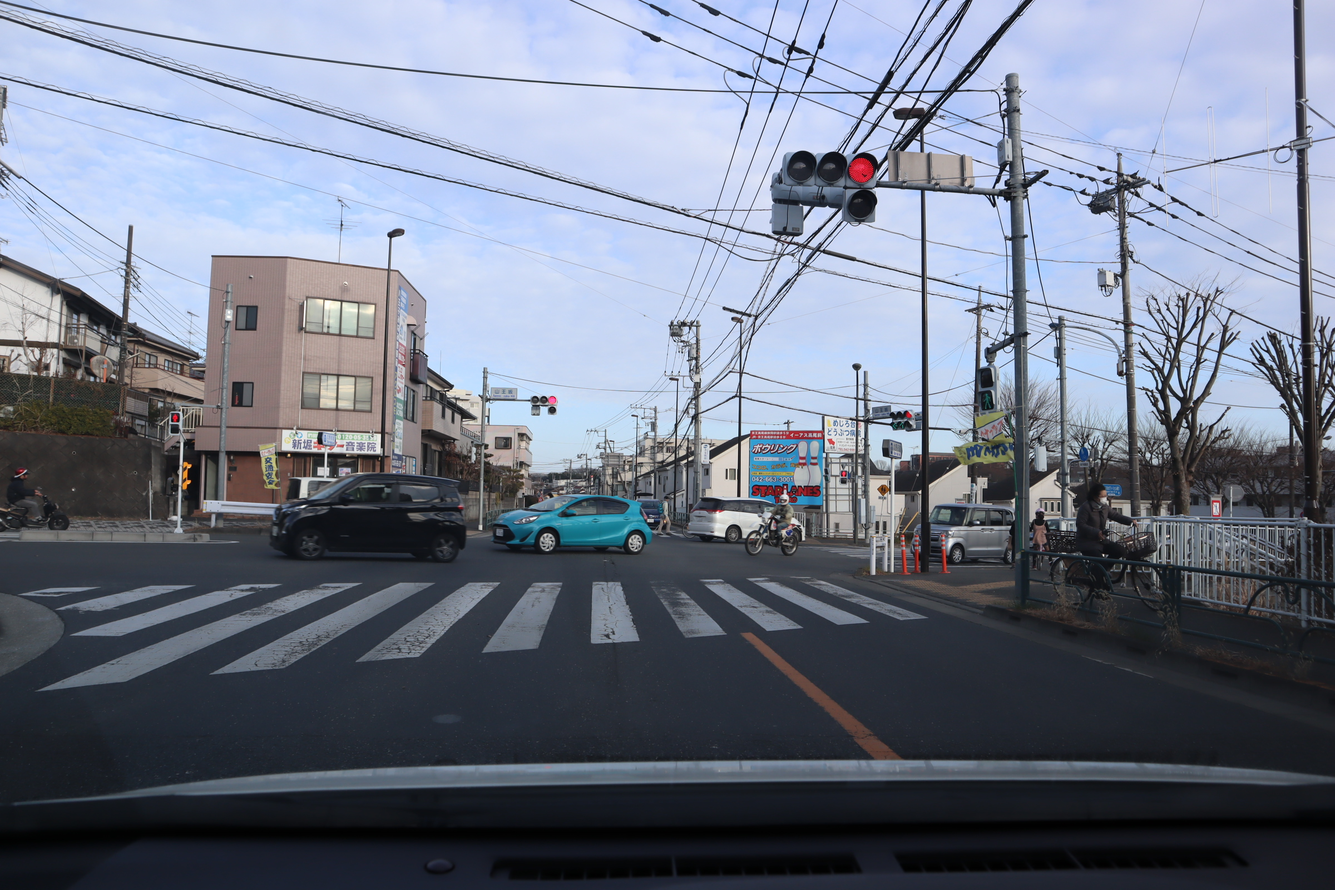
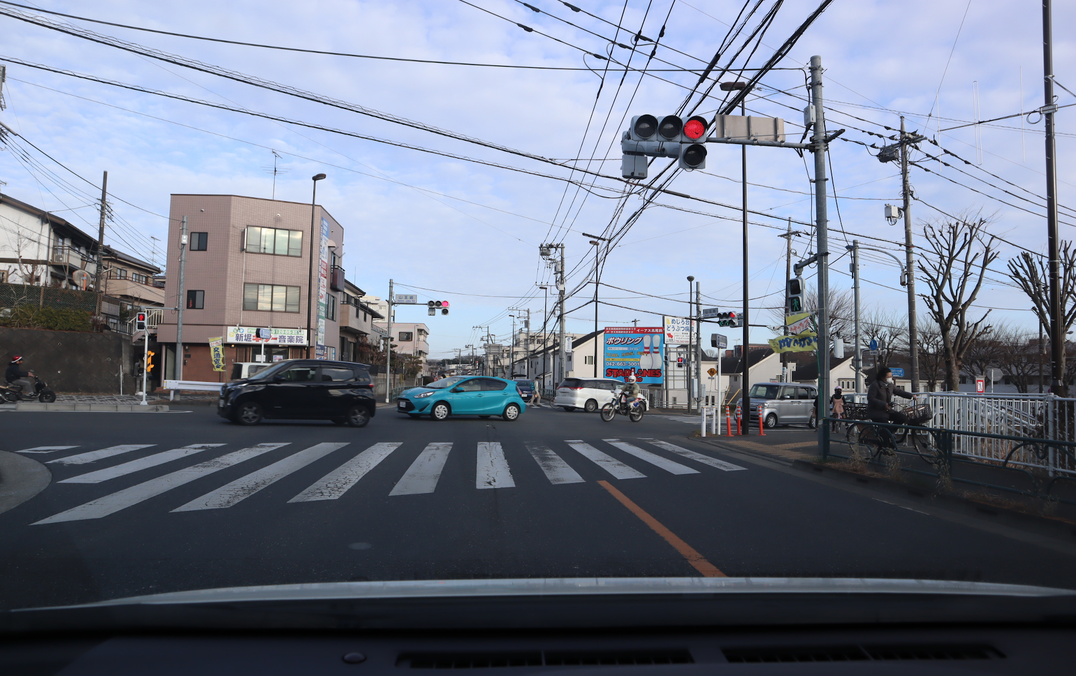
chg  sample image size -> 1936x1216

Changed region(s): [[0.6818, 0.0938, 0.7128, 0.125]]

diff --git a/app/infer_seg.py b/app/infer_seg.py
@@ -29,6 +29,7 @@ parser.add_argument('-o', '--output', default=img_path+'/infer_images', help="Ou
 parser.add_argument('-a', '--annotation',  default=img_path+'/seg_train_annotations', help="annotation file dir")
 parser.add_argument('-c', '--cpu',      action='store_true', default=False, help="disable delegate")
 parser.add_argument('-q', '--quantize', default=True,  action='store_true', help="uint8 model")
+parser.add_argument('-I', '--I8',       default=False, action='store_true', help="int8 model")
 parser.add_argument('-f', '--float',    default=False, action='store_true', help="float model (cpu exec)")
 parser.add_argument('--eval',  default=False, action='store_true', help="eval iou")
 parser.add_argument('--test',  default=False, action='store_true', help="measure infer time")
@@ -38,6 +39,8 @@ args = parser.parse_args()
 ### Prepare TFlite interpreter
 if args.float:
   model = './tflite_graphs/seg_graph_f.tflite'
+elif args.I8:
+  model = './tflite_graphs/seg_graph_i8.tflite'
 else:
   model = './tflite_graphs/seg_graph_q.tflite'
 
@@ -183,7 +186,7 @@ if __name__ == '__main__':
 #      print("input:", img.shape)
 
       t0 = time.time()
-#      img = img[68:1036,:]  # 上下計12% crop
+      img = img[68:1036,:]  # 上下計12% crop
       img_bgr = cv2.resize(img, size)
 
       # convert bgr to rgb
